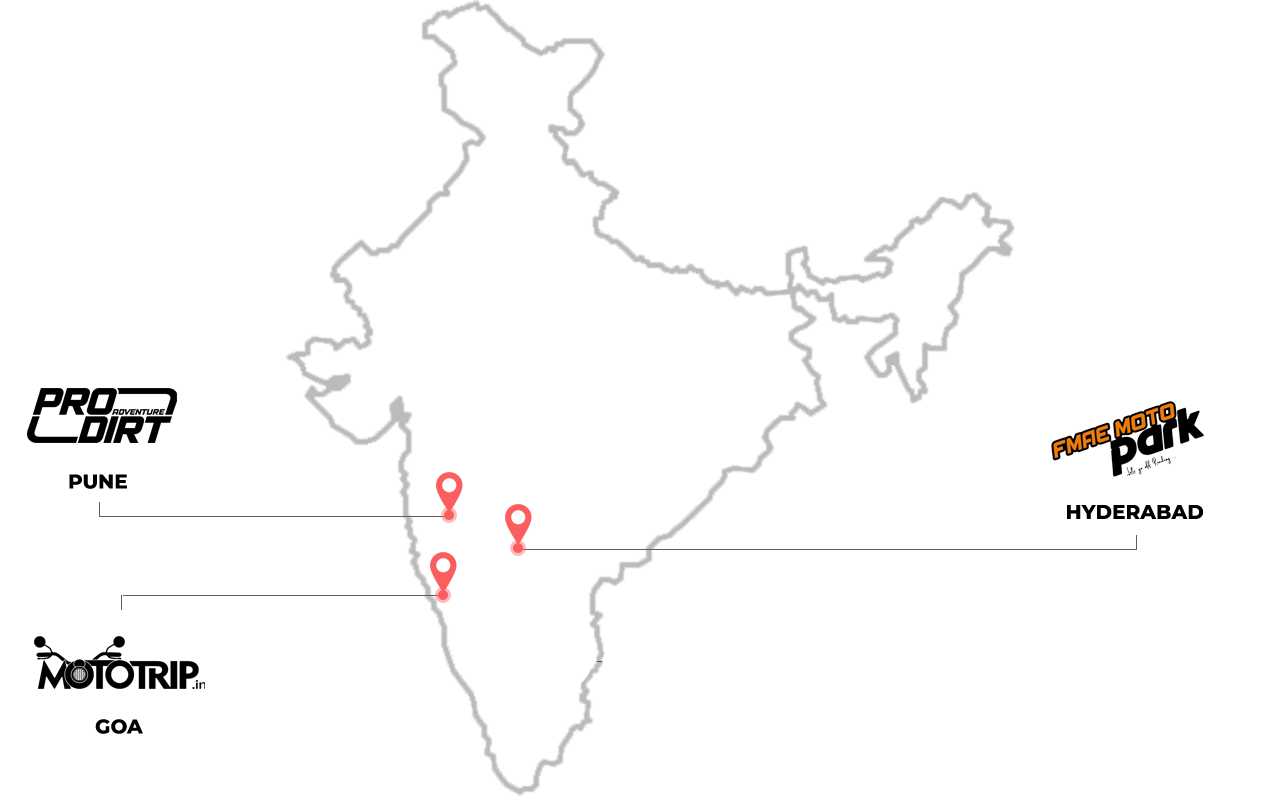
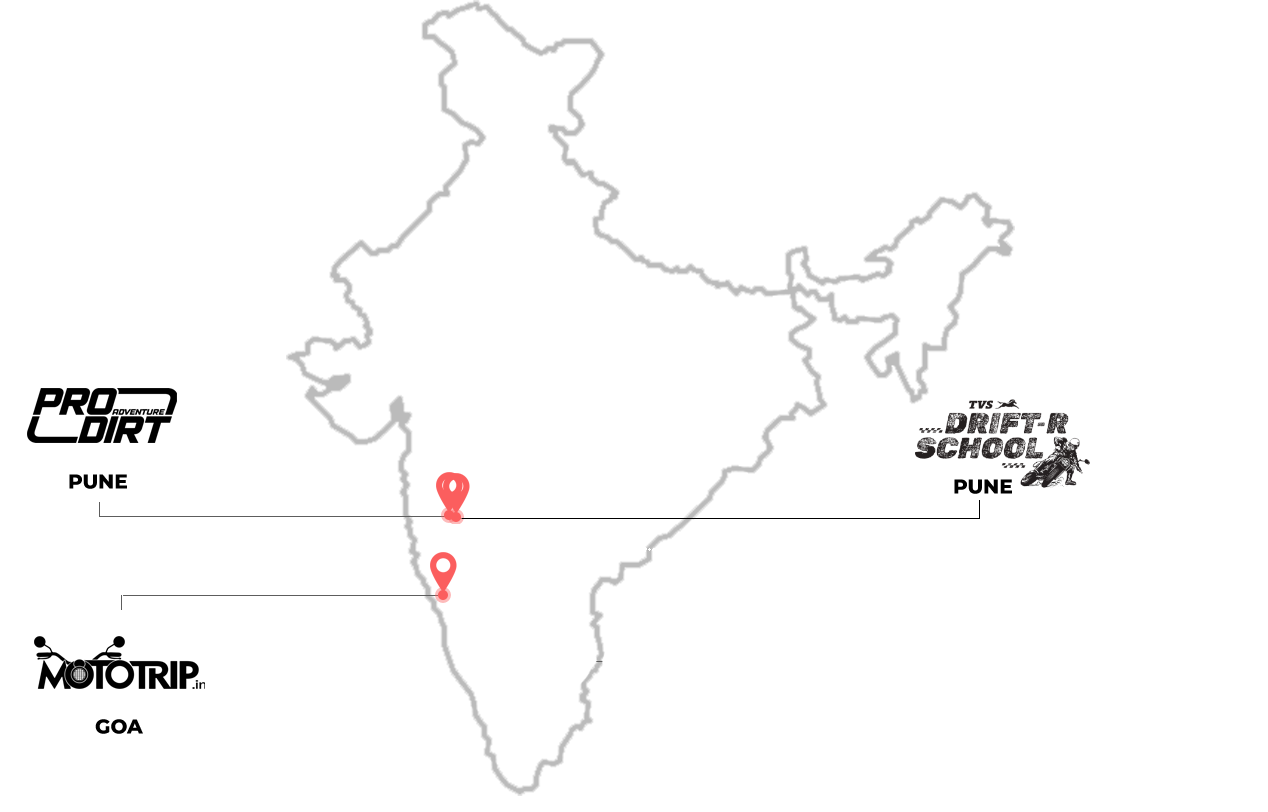
remvoed fame

Changed region(s): [[0.7074, 0.4926, 0.9535, 0.6466], [0.3998, 0.6158, 0.4306, 0.6773], [0.3383, 0.585, 0.3691, 0.6466]]

diff --git a/components/home/Locations.tsx b/components/home/Locations.tsx
@@ -13,23 +13,21 @@ import { Button } from "../ui/button";
 const ItemData = [
   {
     title: "ProDirt Adventure",
+    href: "https://prodirtadventure.offroadacademies.com/",
     description:
       "ProDirt Adventure is the go-to spot for Motorsport enthusiasts from all over Maharashtra offering the right technical terrain coupled with the immense beauty of the Maval region of Pune. The team specializes in 2-wheeler &amp; 4-wheeler off-road training on various terrains.",
   },
   {
     title: "TVS DRIFT-R",
+    href: "https://tvsdriftr.offroadacademies.com/",
     description:
       "Flat Tracking, is a fun, emerging, and accessible form of motorcycling that is among the fastest-growing motorsports in the world. TVS Motor Company is launching the first Drift R School at ProDirt Adventure, Pune This school aims to introduce/help/assist in understanding the nuances of this sport by creating a platform where all our TVS Ronin and other customers get to interact and learn drifting under the guidance of highly skilled trainers in a safe and controlled environment.",
   },
   {
     title: "MotoTrip.in",
+    href: "Coming Soon!",
     description:
       "MotoTrip specializes in Adventure Tours across India. these tours offer experiences of riding a bike through picturesque back roads & trails across India. The team focuses on featuring ride experiences to the lesser-known places wherein a rider would rarely think of visiting on their own. We have some exciting packages for on-road and off-road experiences, especially in the GOA region and selected locations in India.",
-  },
-  {
-    title: "FMAE Moto Park",
-    description:
-      "FMAE Moto Park is one stop to challenge your adventure threshold. A great terrain spread across more than 90 acres in the woods close to nature. Camp, Feast, Ride & Repeat is our Mantra at FMAE Moto Park.",
   },
 ];
 
@@ -45,7 +43,13 @@ const Locations = () => {
           <div className="grid grid-cols-1 lg:grid-cols-2 gap-10">
             {ItemData.map((item) => (
               <CardItem title={item.title} description={item.description}>
-                <Button>Visit Now</Button>
+                {item.href === "Coming Soon!" ? (
+                  <Button>Coming Soon!</Button>
+                ) : (
+                  <a href={item.href} target="_blank" rel="noreferrer noopener">
+                    <Button>Visit Now!</Button>
+                  </a>
+                )}
               </CardItem>
             ))}
           </div>

diff --git a/app/aboutus/page.tsx b/app/aboutus/page.tsx
@@ -62,14 +62,6 @@ const peopleData = [
     instalink: "https://www.instagram.com/kungfu_pilot/",
   },
   {
-    image: navi,
-    name: "Navi Kumar",
-    position: "Head Trainer",
-    location: "FMAE Moto Park - Hyderabad",
-    description: `Navi Kumar, a passionate biker and budding trainer at FMAE Moto Park, currently undergoing training with Nilesh "Nelly" Dhumal. Navi's love for motorcycling and his mentorship with Nelly combine to enrich his expertise in the world of two-wheeled adventures, making him a valuable asset at FMAE Moto Park.`,
-    instalink: "https://www.instagram.com/navikmr/",
-  },
-  {
     image: altaf,
     name: "Altaf Khalifa",
     position: "Founder & Head Trainer",
@@ -166,10 +158,6 @@ export default async function AboutUS() {
                     alt="prodirt Logo"
                   />
                   <div className="text-center">Pune</div>
-                </li>
-                <li className="flex flex-col items-center">
-                  <Image src={fmaeLogo} className="w-24 mb-2" alt="fmae Logo" />
-                  <div className="text-center">Hyderabad</div>
                 </li>
                 <li className="flex flex-col items-center">
                   <Image

diff --git a/config/navitems.tsx b/config/navitems.tsx
@@ -62,12 +62,6 @@ export const navItems = [
         href: "#",
         icon: goa1,
       },
-      {
-        name: "Fmae MotoPark Hyderabad",
-        description: "Coming soon!",
-        href: "#",
-        icon: hyd1,
-      },
     ],
   },
 ];
